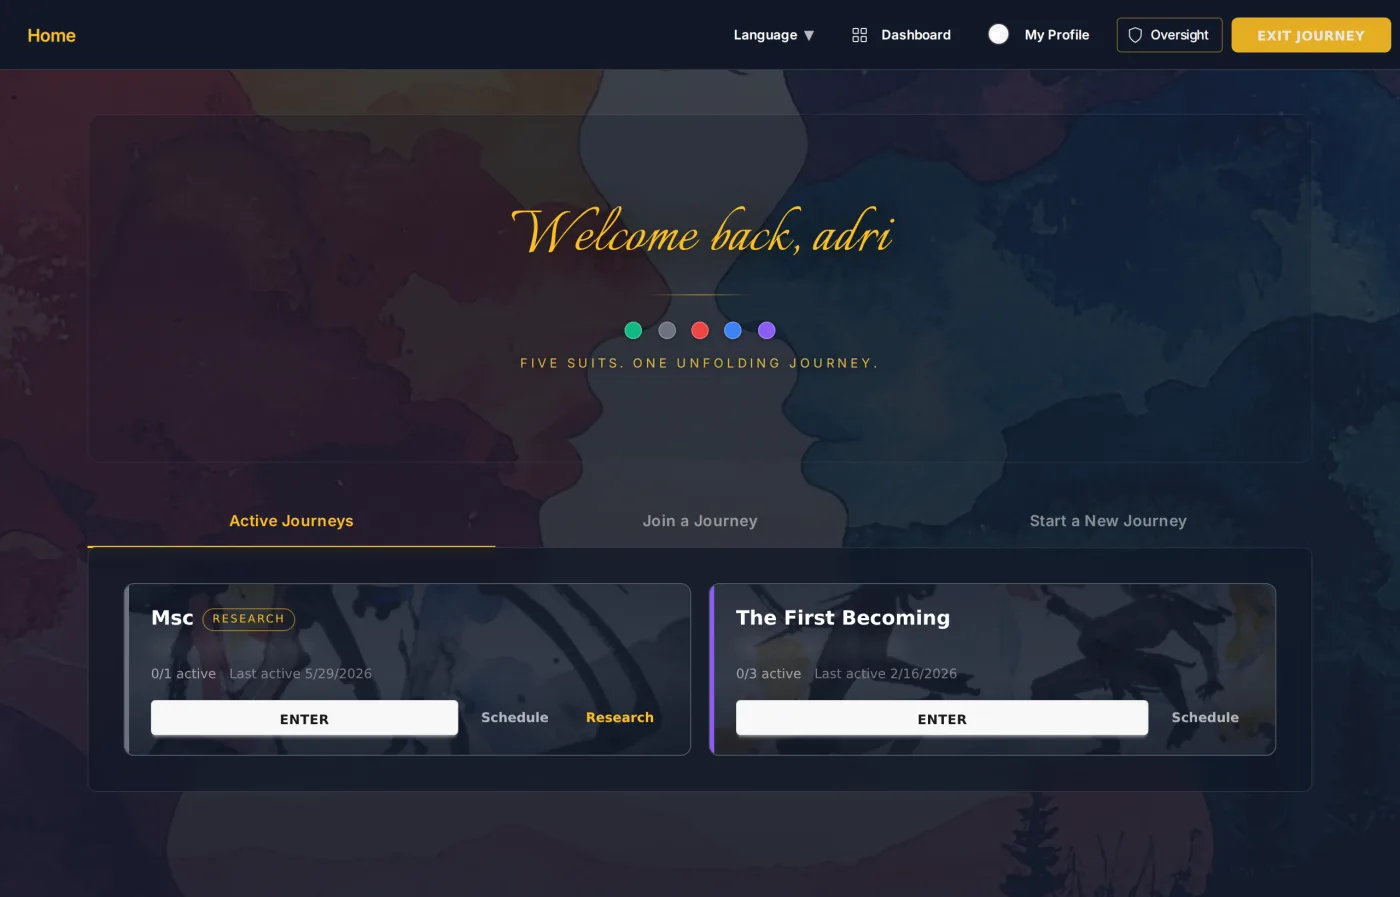
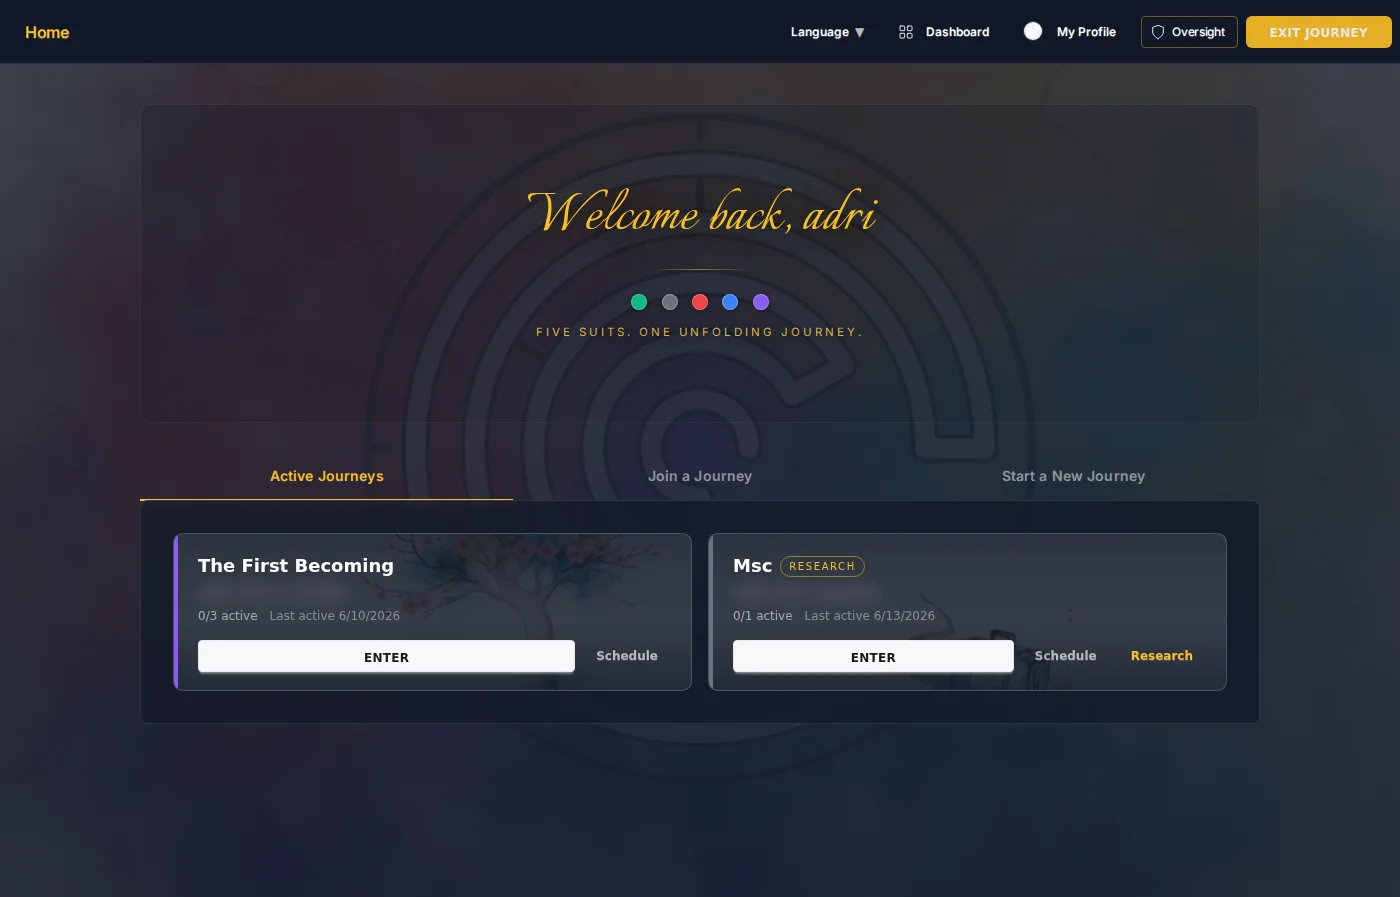
fix(videogame): retake the home and dashboard screenshots with the new mark

diff --git a/js/main.js b/js/main.js
@@ -263,8 +263,8 @@ var gallerySets = {
         { src: 'img/boardgame_components.webp', alt: 'JOURNEYWAYS board game components and setup for collaborative identity exploration: tiles, cards, tokens, and player booklets arranged for play.', title: 'Game components', subtitle: 'Tiles, cards, tokens, and player booklets, arranged for a session.' }
     ],
     videogameScreens: [
-        { src: 'img/play/play-home.webp', alt: 'The JOURNEYWAYS digital game home screen: the watercolour wordmark over a puzzle-piece landscape, with Begin the Journey and Return to Path buttons.', title: 'The front door', subtitle: 'JOURNEYWAYS online: a game about becoming.' },
-        { src: 'img/play/play-dashboard.webp', alt: 'The digital game dashboard: a Welcome back greeting, the five suit dots, and Active Journeys, Join a Journey, and Start a New Journey tabs over cards for the player’s rooms.', title: 'Your dashboard', subtitle: 'Your rooms and journeys, gathered in one place.' },
+        { src: 'img/play/play-home.webp?v=2', alt: 'The JOURNEYWAYS digital game home screen: the script wordmark over a faint watercolour labyrinth, with Begin the Journey and Return to Path buttons.', title: 'The front door', subtitle: 'JOURNEYWAYS online: a game about becoming.' },
+        { src: 'img/play/play-dashboard.webp?v=2', alt: 'The digital game dashboard: a Welcome back greeting, the five suit dots, and Active Journeys, Join a Journey, and Start a New Journey tabs over cards for the player’s rooms.', title: 'Your dashboard', subtitle: 'Your rooms and journeys, gathered in one place.' },
         { src: 'img/play/play-tiles.webp?v=2', alt: 'The digital map-tile gallery: a grid of square watercolour tiles, each with its name below.', title: 'The map tiles', subtitle: 'The modular map, including blank tiles to fill in yourself.' },
         { src: 'img/play/play-room.webp', alt: 'Inside a room: the private journal panel with the Character Origins prompts on the left, beside the room lobby with its members and a Start Journey button on the right.', title: 'Inside a room', subtitle: 'The private journal beside the live room lobby.' }
     ],

diff --git a/templates/videogame.php b/templates/videogame.php
@@ -144,11 +144,11 @@ $P = 'pages.videogame';
                     </p>
                     <div class="grid grid-cols-2 md:grid-cols-4 gap-3">
                         <figure class="m-0">
-                            <img src="/img/play/play-home.webp" alt="<?= te("$P.screens.front.alt") ?>" class="w-full aspect-[1400/897] object-cover rounded border border-gray-700/40 cursor-pointer hover:opacity-90 transition-opacity" onclick="openLightboxFromSet('videogameScreens', 0)" loading="lazy">
+                            <img src="/img/play/play-home.webp?v=2" alt="<?= te("$P.screens.front.alt") ?>" class="w-full aspect-[1400/897] object-cover rounded border border-gray-700/40 cursor-pointer hover:opacity-90 transition-opacity" onclick="openLightboxFromSet('videogameScreens', 0)" loading="lazy">
                             <figcaption class="text-[11px] text-gray-500 italic mt-2"><?= te("$P.screens.front.caption") ?></figcaption>
                         </figure>
                         <figure class="m-0">
-                            <img src="/img/play/play-dashboard.webp" alt="<?= te("$P.screens.dashboard.alt") ?>" class="w-full aspect-[1400/897] object-cover rounded border border-gray-700/40 cursor-pointer hover:opacity-90 transition-opacity" onclick="openLightboxFromSet('videogameScreens', 1)" loading="lazy">
+                            <img src="/img/play/play-dashboard.webp?v=2" alt="<?= te("$P.screens.dashboard.alt") ?>" class="w-full aspect-[1400/897] object-cover rounded border border-gray-700/40 cursor-pointer hover:opacity-90 transition-opacity" onclick="openLightboxFromSet('videogameScreens', 1)" loading="lazy">
                             <figcaption class="text-[11px] text-gray-500 italic mt-2"><?= te("$P.screens.dashboard.caption") ?></figcaption>
                         </figure>
                         <figure class="m-0">

diff --git a/partials/footer.php b/partials/footer.php
@@ -17,7 +17,7 @@
     </div>
 
     <script>window.__I18N = <?= json_encode(jw_load_js($JW_LANG), JSON_UNESCAPED_SLASHES | JSON_UNESCAPED_UNICODE) ?>;</script>
-    <script src="/js/main.js?v=29" defer></script>
+    <script src="/js/main.js?v=30" defer></script>
     <script defer src="https://www.googletagmanager.com/gtag/js?id=G-3W5YQCJ0FQ"></script>
 </body>
 </html>
